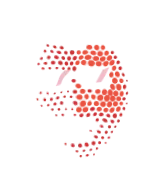
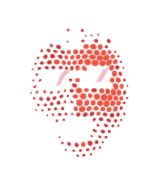
La bestia pop: caras que se leen, brochazos en diagonal y la luz del seguidor
Pulida de la vuelta: las caras de la gente tienen pelo prendido por el reflector,
la boca del que canta es un pozo y la piba cierra los ojos; el saco va en
diagonal como los brochazos de Gulp!; la mano de atrás toca el charco del
seguidor. Arregla un parpadeo de un cuadro al terminar un fundido de caras, y
los gestos se espacian. La estampa entra en los 320 del contrato.

diff --git a/src/lib/bestiario/arte-bestia-pop.ts b/src/lib/bestiario/arte-bestia-pop.ts
@@ -217,7 +217,8 @@ function adentro([x, y]: P, pts: readonly P[]): boolean {
 function cuerpo(): string {
   const d = poli(CUERPO);
   const caja = cajaDe(CUERPO, 2);
-  const vol: Volumen = { c: [4, -120], r: [84, 76], angulo: 78, ancho: 15, semilla: 1201 };
+  // Las pasadas cruzan en diagonal, como los brochazos de la tapa de *Gulp!*.
+  const vol: Volumen = { c: [4, -120], r: [84, 76], angulo: 62, ancho: 15, semilla: 1201 };
   // El forro del abanico: rojo corrido sobre amarillo, en pasadas que salen de la nuca como rayos, y lo
   // hondo pegado a la cabeza, que le tira sombra.
   const [cx, cy] = CUELLO.c;
@@ -407,6 +408,17 @@ function luzDeCara(c: Cara, u0: number, v: number): number {
   const u = u0 / c.ancho;
   const w = v > 0.2 ? 1 - 0.3 * (v - 0.2) ** 2 : 1;
   const borde = (u / w) ** 2 + v * v;
+  // El pelo: casi negro, pero el reflector le prende los mechones de su lado, y así se le ve la forma.
+  const ondas = Math.cos(u * 9) * 0.05;
+  const frente = c.pelo === 'rulos' ? -0.5 : c.pelo === 'largo' ? -0.6 : -0.7;
+  const lado = c.pelo === 'largo' ? Math.abs(u) > 0.8 - Math.max(0, v) * 0.1 : c.pelo === 'rulos' ? Math.abs(u) > 0.84 + Math.sin(v * 12) * 0.05 : false;
+  const melena =
+    c.pelo === 'rulos' ? (u / 1.32) ** 2 + ((v + 0.12) / 1.22) ** 2 < 1 : c.pelo === 'largo' ? (u / 1.12) ** 2 + ((v + 0.05) / 1.28) ** 2 < 1 && v < 1.05 : borde < 1.05;
+  if (melena && (borde > 1.05 || v < frente + ondas || lado)) {
+    const prende = Math.max(0, u * 0.7 - v * 0.4 + 0.15);
+    const textura = c.pelo === 'rulos' ? 0.5 + 0.5 * Math.sin(u * 15) * Math.sin(v * 13) : 0.5 + 0.5 * Math.sin(u * 26 + v * 3);
+    return Math.max(0, Math.min(0.42, prende * textura * 0.55));
+  }
   if (borde > 1.05) return 0;
   // La luz del reflector, de arriba a la derecha: el lado de la sombra se hunde en lo negro.
   let b = 0.46 + 0.26 * u - 0.12 * v;
@@ -414,7 +426,11 @@ function luzDeCara(c: Cara, u0: number, v: number): number {
   const ojo = c.ojos === 'cerrados' ? 0.3 : 0.75;
   b += 0.16 * (g(u, v, -0.36, -0.44, 0.26, 0.1) + g(u, v, 0.36, -0.44, 0.26, 0.1));
   b -= ojo * (g(u, v, -0.36, -0.2, 0.22, 0.13) + g(u, v, 0.36, -0.2, 0.22, 0.13));
-  if (c.ojos === 'cerrados') b -= 0.55 * (g(u, v, -0.36, -0.15, 0.2, 0.035) + g(u, v, 0.36, -0.15, 0.2, 0.035));
+  if (c.ojos === 'cerrados') {
+    // Los párpados bajos: una raya que se curva para abajo, como el que canta con los ojos cerrados.
+    const raya = (cu: number): number => Math.exp(-(((v + 0.14 - 0.5 * (u - cu) ** 2) / 0.04) ** 2) - ((u - cu) / 0.2) ** 2);
+    b -= 0.95 * (raya(-0.36) + raya(0.36));
+  }
   if (c.ojos === 'anteojos') {
     const lente = (cu: number): number => (Math.abs(u - cu) < 0.28 && Math.abs(v + 0.2) < 0.15 ? 1 : 0);
     if (lente(-0.36) || lente(0.36) || (Math.abs(u) < 0.1 && Math.abs(v + 0.26) < 0.04)) return 0;
@@ -423,20 +439,17 @@ function luzDeCara(c: Cara, u0: number, v: number): number {
   b -= 0.5 * g(u, v, 0.02, 0.4, 0.2, 0.06) + 0.25 * g(u, v, -0.15, 0.18, 0.08, 0.2);
   b += 0.12 * g(u, v, -0.52, 0.1, 0.2, 0.16) + 0.22 * g(u, v, 0.52, 0.1, 0.2, 0.16);
   b -= 0.16 * (g(u, v, -0.6, 0.45, 0.16, 0.25) + g(u, v, 0.6, 0.45, 0.16, 0.25));
-  if (c.boca === 'grita') b -= 1.1 * g(u, v, 0.02, 0.64, 0.22, 0.2) - 0.3 * g(u, v, 0.02, 0.47, 0.16, 0.035);
-  else if (c.boca === 'sonrie') {
-    const vm = 0.6 - 0.35 * u * u;
-    b -= 0.7 * Math.exp(-(((v - vm) / 0.055) ** 2) - (u / 0.36) ** 2);
-    b += 0.14 * (g(u, v, -0.44, 0.3, 0.16, 0.12) + g(u, v, 0.44, 0.3, 0.16, 0.12));
+  if (c.boca === 'grita') {
+    // La boca abierta de cantar a los gritos: un pozo negro, con la fila de dientes arriba.
+    if (((u - 0.02) / 0.3) ** 2 + ((v - 0.66) / 0.26) ** 2 < 1) return v < 0.47 && Math.abs(u) < 0.2 ? 0.55 : 0;
+    b += 0.1 * g(u, v, 0.02, 0.98, 0.3, 0.08);
+  } else if (c.boca === 'sonrie') {
+    const vm = 0.58 - 0.4 * u * u;
+    b -= 0.95 * Math.exp(-(((v - vm) / 0.06) ** 2) - (u / 0.4) ** 2);
+    b += 0.2 * (g(u, v, -0.44, 0.28, 0.16, 0.12) + g(u, v, 0.44, 0.28, 0.16, 0.12));
   } else b -= 0.6 * g(u, v, 0.02, 0.64, 0.28, 0.05) - 0.14 * g(u, v, 0.03, 0.74, 0.18, 0.05);
   if (c.bigote) b -= 0.8 * g(u, v, 0.02, 0.5, 0.32, 0.07);
   b += 0.12 * g(u, v, 0.06, 0.95, 0.24, 0.1);
-  // El pelo: lo negro de arriba, y a los costados si es largo o con rulos.
-  const ondas = Math.cos(u * 9) * 0.05;
-  const frente = c.pelo === 'rulos' ? -0.5 : c.pelo === 'largo' ? -0.6 : -0.7;
-  if (v < frente + ondas) return 0;
-  if (c.pelo === 'largo' && Math.abs(u) > 0.8 - Math.max(0, v) * 0.1) return 0;
-  if (c.pelo === 'rulos' && Math.abs(u) > 0.84 + Math.sin(v * 12) * 0.05) return 0;
   return Math.max(0, Math.min(1, b));
 }
 
@@ -447,8 +460,8 @@ function cara(c: Cara): string {
   const paso = 2.05;
   let hondos = '';
   let claros = '';
-  for (let y = cy - ry - 2, fila = 0; y < cy + ry + 2; y += paso * 0.87, fila++) {
-    for (let x = cx - rx - 2 + (fila % 2) * paso * 0.5; x < cx + rx + 2; x += paso) {
+  for (let y = cy - ry - 4, fila = 0; y < cy + ry + 4; y += paso * 0.87, fila++) {
+    for (let x = cx - rx - 4 + (fila % 2) * paso * 0.5; x < cx + rx + 4; x += paso) {
       // La cara ladeada: se mira el punto girado al revés.
       const [qx, qy] = rotar([x, y], CARA, -c.giro);
       const l = luzDeCara(c, (qx - cx) / (rx * 0.86), (qy - cy) / (ry * 0.84));
@@ -566,7 +579,11 @@ function antebrazo(n: 0 | 1): string {
       `</g>` +
       lentejuelas(`bpa${n}-lent`, d, caja, vol, n ? 40 : 18, 1620 + n * 40, manga) +
       puno(n ? 1 : -1, muneca, 1640 + n * 40, n ? 0.8 : 0.2) +
-      (n ? filo(`M98 -96 L104 -80 L106 -60 L104 -46 L111 -32 L116 -16 L112 -6 L108 -18 L104 -34 L100 -48 L100 -62 L98 -80 Z`, 0.7) : nube(-104, -40, 14, 50, T.negro, 'm', 0.45)),
+      (n
+        ? filo(`M98 -96 L104 -80 L106 -60 L104 -46 L111 -32 L116 -16 L112 -6 L108 -18 L104 -34 L100 -48 L100 -62 L98 -80 Z`, 0.7) +
+          // Abajo, la mano de atrás ya toca el borde del charco del seguidor: una luz pálida, prestada.
+          nube(114, -14, 9, 18, T.seguidor, 'm', 0.5)
+        : nube(-104, -40, 14, 50, T.negro, 'm', 0.45)),
   );
 }
 
@@ -606,7 +623,8 @@ function piernas(): string {
       tinta(pincelada([[-32, -70], [-34, -50], [-36, -30], [-38, -14]], { ancho: 2.4, seco: 0.3, grano: 12 }, 1730) + pincelada([[30, -70], [33, -50], [36, -30], [40, -14]], { ancho: 2.4, seco: 0.3, grano: 12 }, 1731)) +
       filo(`M48 -76 L52 -58 L56 -38 L62 -18 L66 -18 L60 -40 L56 -60 L52 -76 Z`, 0.6) +
       bota(-80, -8, -70, 1740) +
-      bota(8, 82, 72, 1750),
+      bota(8, 82, 72, 1750) +
+      nube(82, -6, 7, 7, T.seguidor, 's', 0.55),
   );
 }
 
@@ -664,8 +682,8 @@ const img = imagenesDe(PIEZAS_BESTIA_POP);
 export const CHISPAS: Readonly<Record<string, ReadonlyArray<readonly [number, number, number]>>> = {
   cuerpo: [[-30, -204, 0.45], [40, -205, 1], [64, -184, 1], [24, -150, 0.8], [79, -140, 1], [76, -104, 0.9], [62, -66, 0.7], [8, -116, 1], [-44, -140, 0.25], [40, -50, 0.6]],
   'brazo-1': [[-78, -152, 0.35], [-92, -104, 0.2]],
-  'antebrazo-1': [[-70, -60, 0.4], [-74, -2, 0.5]],
-  'brazo-2': [[88, -150, 1], [100, -102, 0.9]],
+  'antebrazo-1': [[-70, -60, 0.4], [-82, -3, 0.5]],
+  'brazo-2': [[84, -148, 1], [98, -102, 0.9]],
   'antebrazo-2': [[104, -64, 1], [108, -4, 0.9]],
   piernas: [[-70, -9, 0.4], [72, -9, 1]],
 };
@@ -716,5 +734,5 @@ export const BESTIA_POP: Personaje | null = {
   ancla: POP.x,
   piezas: PIEZAS_BESTIA_POP,
   capas: { figura: (nombres) => titere(nombres.get(ID) ?? 'La bestia pop') },
-  retrato: { caja: [-124, -218, 248, 222], cuerpo: adentroDelTitere },
+  retrato: { caja: [-132, -228, 264, 236], cuerpo: adentroDelTitere },
 };

diff --git a/src/lib/bestiario/bestia-pop.test.ts b/src/lib/bestiario/bestia-pop.test.ts
@@ -46,6 +46,10 @@ test('la bestia pop es un títere entero: cada parte que mueve la isla, con su i
     assert.ok(adentro(A.codos[n], R[`brazo-${n + 1}`]!) && adentro(A.codos[n], R[`antebrazo-${n + 1}`]!), `el codo ${n + 1} no une sus dos piezas`);
     assert.ok(adentro(A.manos[n], R[`antebrazo-${n + 1}`]!), `los nudillos ${n + 1} no están en su mano`);
   }
+  // Cada destello cae sobre la pieza que lo lleva: no queda una estrella flotando al lado.
+  for (const [parte, lista] of Object.entries(CHISPAS)) {
+    for (const [x, y] of lista) assert.ok(adentro([x, y], R[parte]!), `el destello (${x}, ${y}) se sale de ${parte}`);
+  }
   // La cara: el hueco está adentro de la cabeza, y cada cara entra en el hueco.
   for (const [dx, dy] of [[-1, 0], [1, 0], [0, -1], [0, 1]] as const) {
     assert.ok(adentro([A.cara.centro[0] + dx * A.cara.radio[0], A.cara.centro[1] + dy * A.cara.radio[1]], R.cabeza!), 'la cara se sale de la cabeza');
@@ -207,10 +211,19 @@ test('viva: se cambia la cara sola, se la tapa, busca la luz, y tocada brilla co
   const { esc, dichos, reloj } = escenario(false);
   const vivo = armarBestiaPop!([j.marco as unknown as SVGGElement], esc);
   const visto = { caras: new Set<number>(), tapa: false, busca: false, mezcla: false };
+  let puesta = 0;
+  let desde = 0;
   for (let t = 0; t < 70; t += 1 / 30) {
     vivo.mover(t, 1 / 30);
     const ops = Array.from({ length: A.caras }, (_, i) => Number(j.parte(`cara-${i + 1}`).getAttribute('opacity')));
     ops.forEach((o, i) => o > 0.99 && visto.caras.add(i));
+    // La que más se ve: si cambia, que no sea un parpadeo de un cuadro, que vuelve a la de antes.
+    const ahora = ops.indexOf(Math.max(...ops));
+    if (ahora !== puesta) {
+      assert.ok(t - desde > 1, `en ${t.toFixed(2)} la cara cambió dos veces en un segundo`);
+      puesta = ahora;
+      desde = t;
+    }
     if (ops.filter((o) => o > 0.05).length === 2) visto.mezcla = true;
     // Siempre hay una cara puesta: nunca queda el hueco vacío.
     assert.ok(ops.reduce((a, b) => a + b, 0) > 0.95, `en ${t.toFixed(2)} no tiene cara`);

diff --git a/src/scripts/bestiario/bestia-pop.ts b/src/scripts/bestiario/bestia-pop.ts
@@ -201,8 +201,8 @@ export const armarBestiaPop: Armar | null = (marcos: readonly SVGGElement[], esc
 
     // Lo que decide: un gesto por vez, y los tiempos se corren para que nunca sea un reloj.
     if (e.modo !== 'mira' && u > total(DURA[e.modo])) {
-      if (e.modo === 'tapa') e.proximaTapa = t + 9 + Math.random() * 8;
-      if (e.modo === 'busca') e.proximaBusca = t + 15 + Math.random() * 9;
+      if (e.modo === 'tapa') e.proximaTapa = t + 12 + Math.random() * 9;
+      if (e.modo === 'busca') e.proximaBusca = t + 16 + Math.random() * 10;
       // Después de un gesto respira un rato encorvada: nada de encadenar uno con otro.
       e.proximaTapa = Math.max(e.proximaTapa, t + 3 + Math.random() * 3);
       e.proximaBusca = Math.max(e.proximaBusca, t + 4 + Math.random() * 4);
@@ -217,17 +217,18 @@ export const armarBestiaPop: Armar | null = (marcos: readonly SVGGElement[], esc
         // Sin taparse: una cara se le funde en la siguiente, como si la pusiera otro.
         e.otra = otraCara(e.cara);
         e.funde = t;
-        e.proximoFundido = t + 14 + Math.random() * 9;
+        e.proximoFundido = t + 15 + Math.random() * 9;
       }
     }
 
     // Las caras: el fundido, el cambio detrás de la mano y el carrusel de cuando brilla.
-    let caras = Array.from({ length: A.caras }, (_, i) => (i === e.cara ? 1 : 0));
     const f = (t - e.funde) / FUNDE;
+    if (f >= 1 && e.cara !== e.otra) e.cara = e.otra;
+    let caras: number[] = Array.from({ length: A.caras }, (_, i) => (i === e.cara ? 1 : 0));
     if (f >= 0 && f < 1) {
       const k = suave(f);
       caras = caras.map((_, i) => (i === e.cara ? 1 - k : i === e.otra ? k : 0));
-    } else if (f >= 1 && e.cara !== e.otra) e.cara = e.otra;
+    }
     const kTapa = e.modo === 'tapa' ? avance(u, DURA.tapa) : 0;
     if (e.modo === 'tapa' && !e.cambiada && u > DURA.tapa[0] + DURA.tapa[1] * 0.45) {
       e.cara = otraCara(e.cara);
